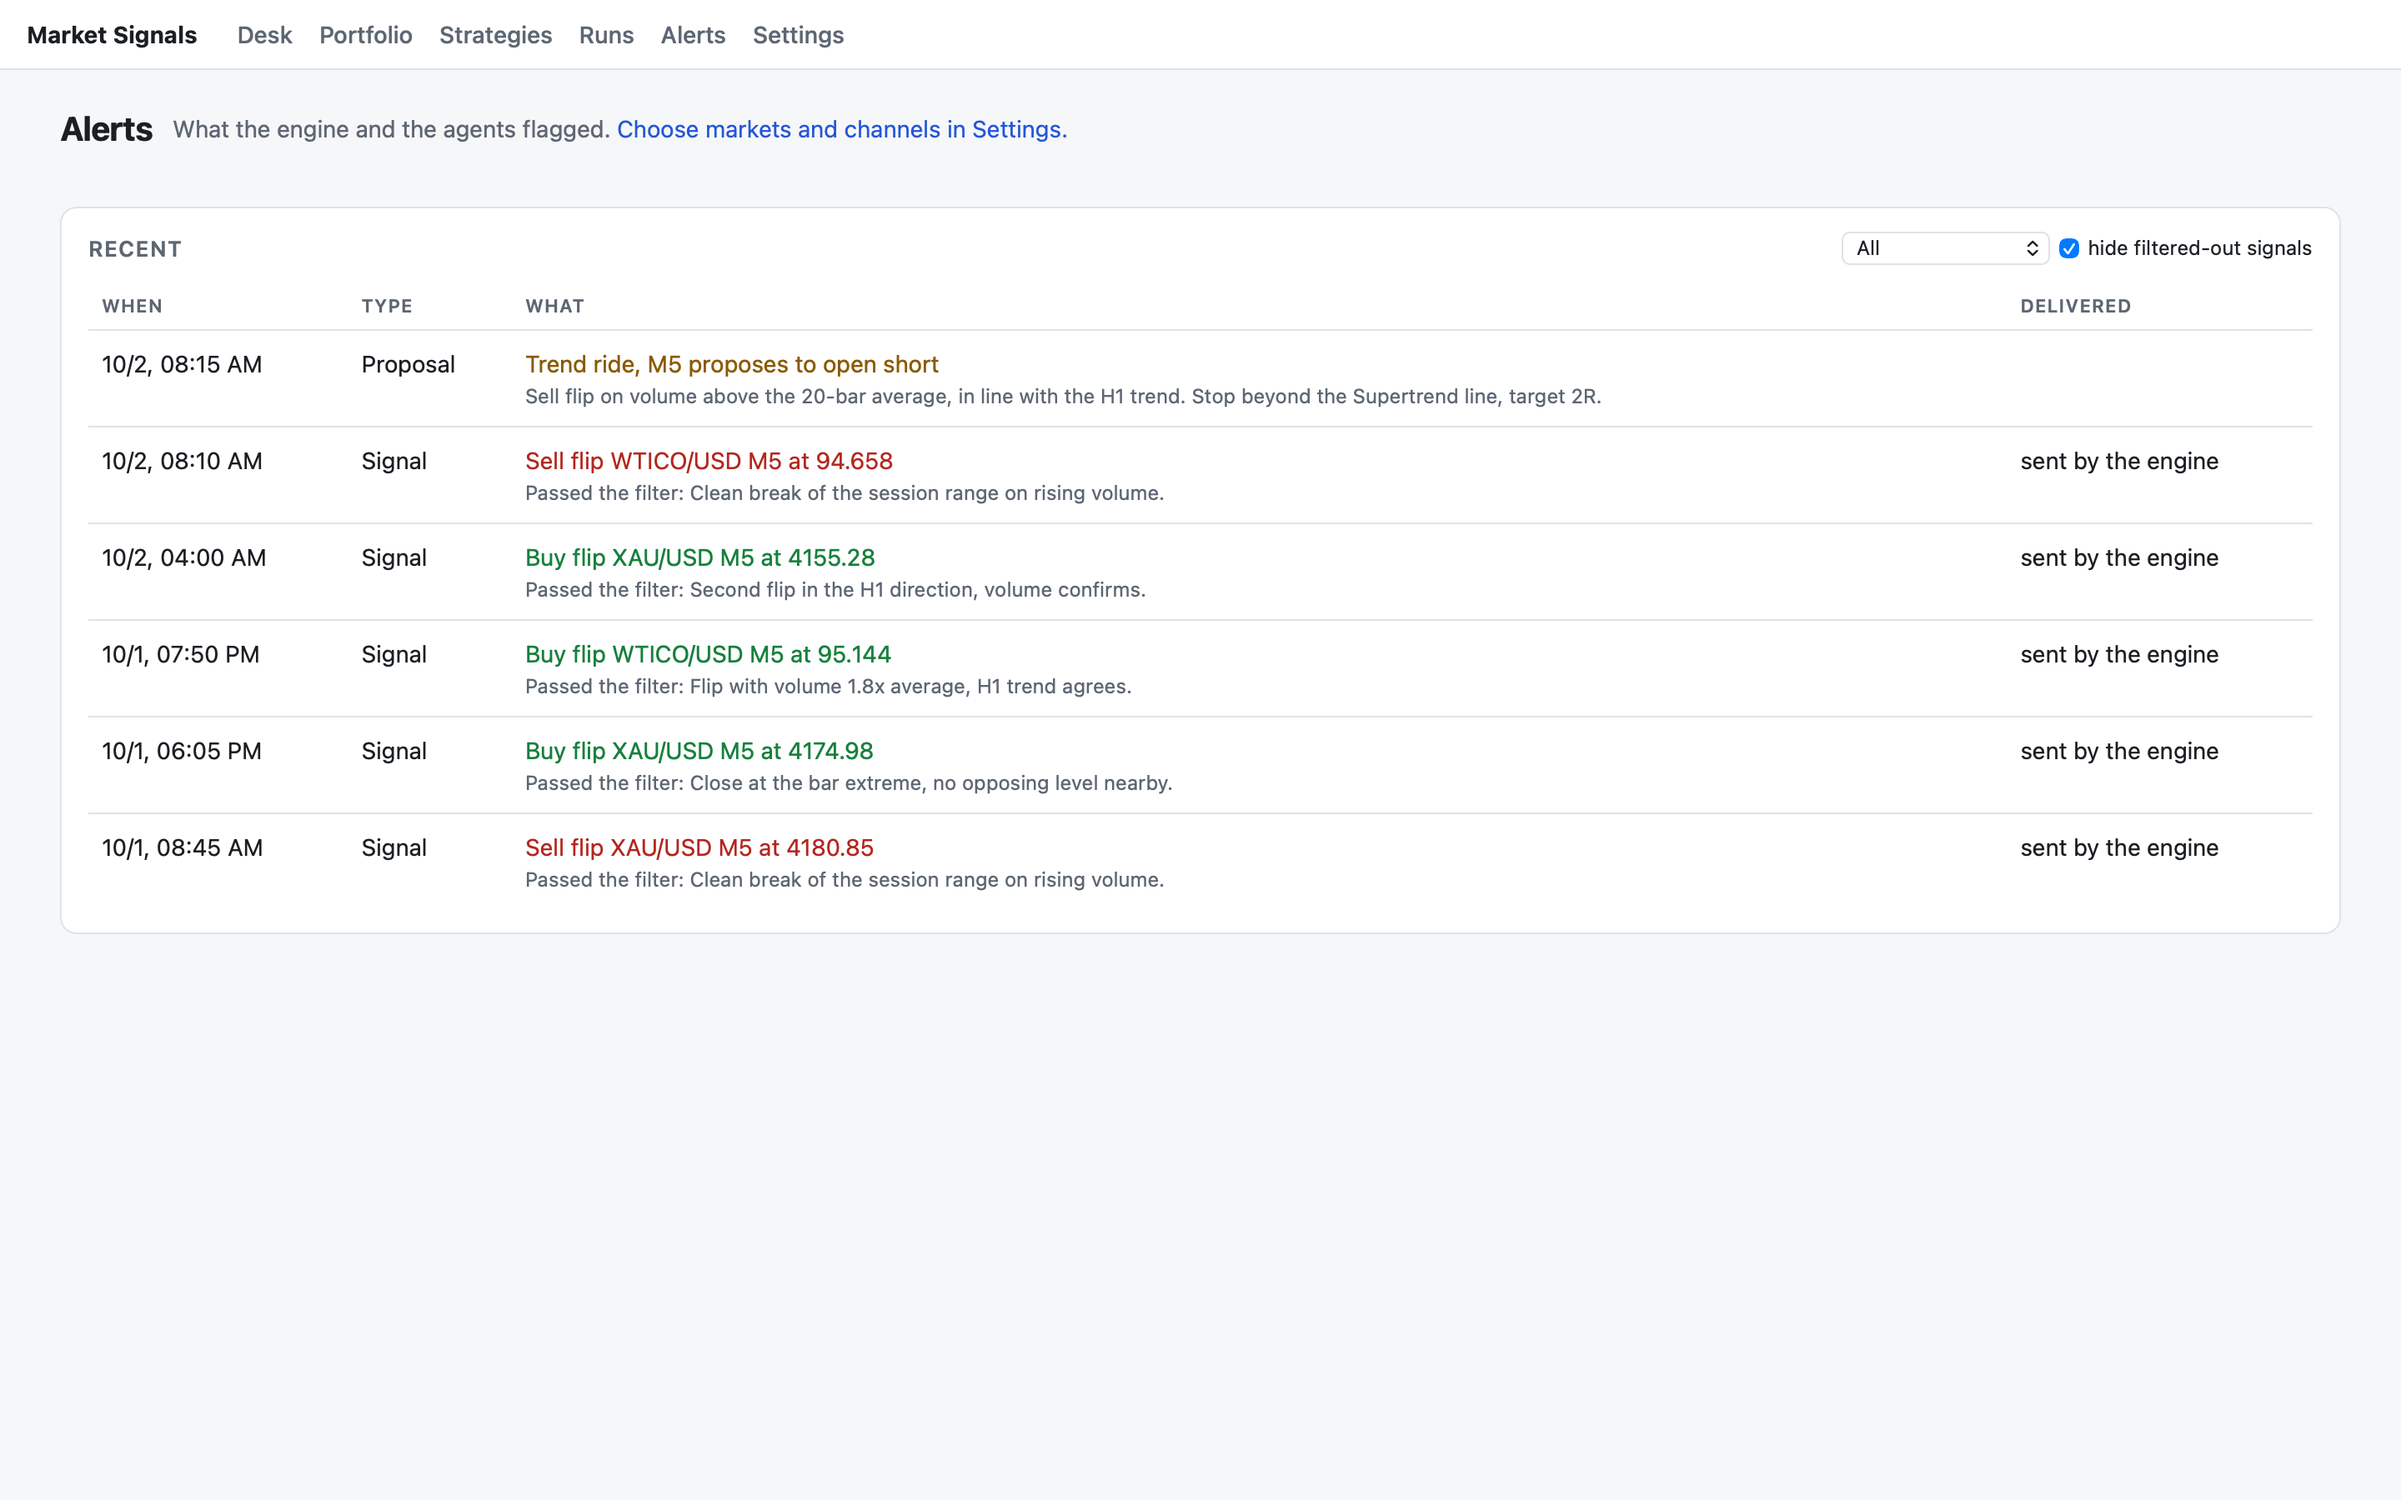
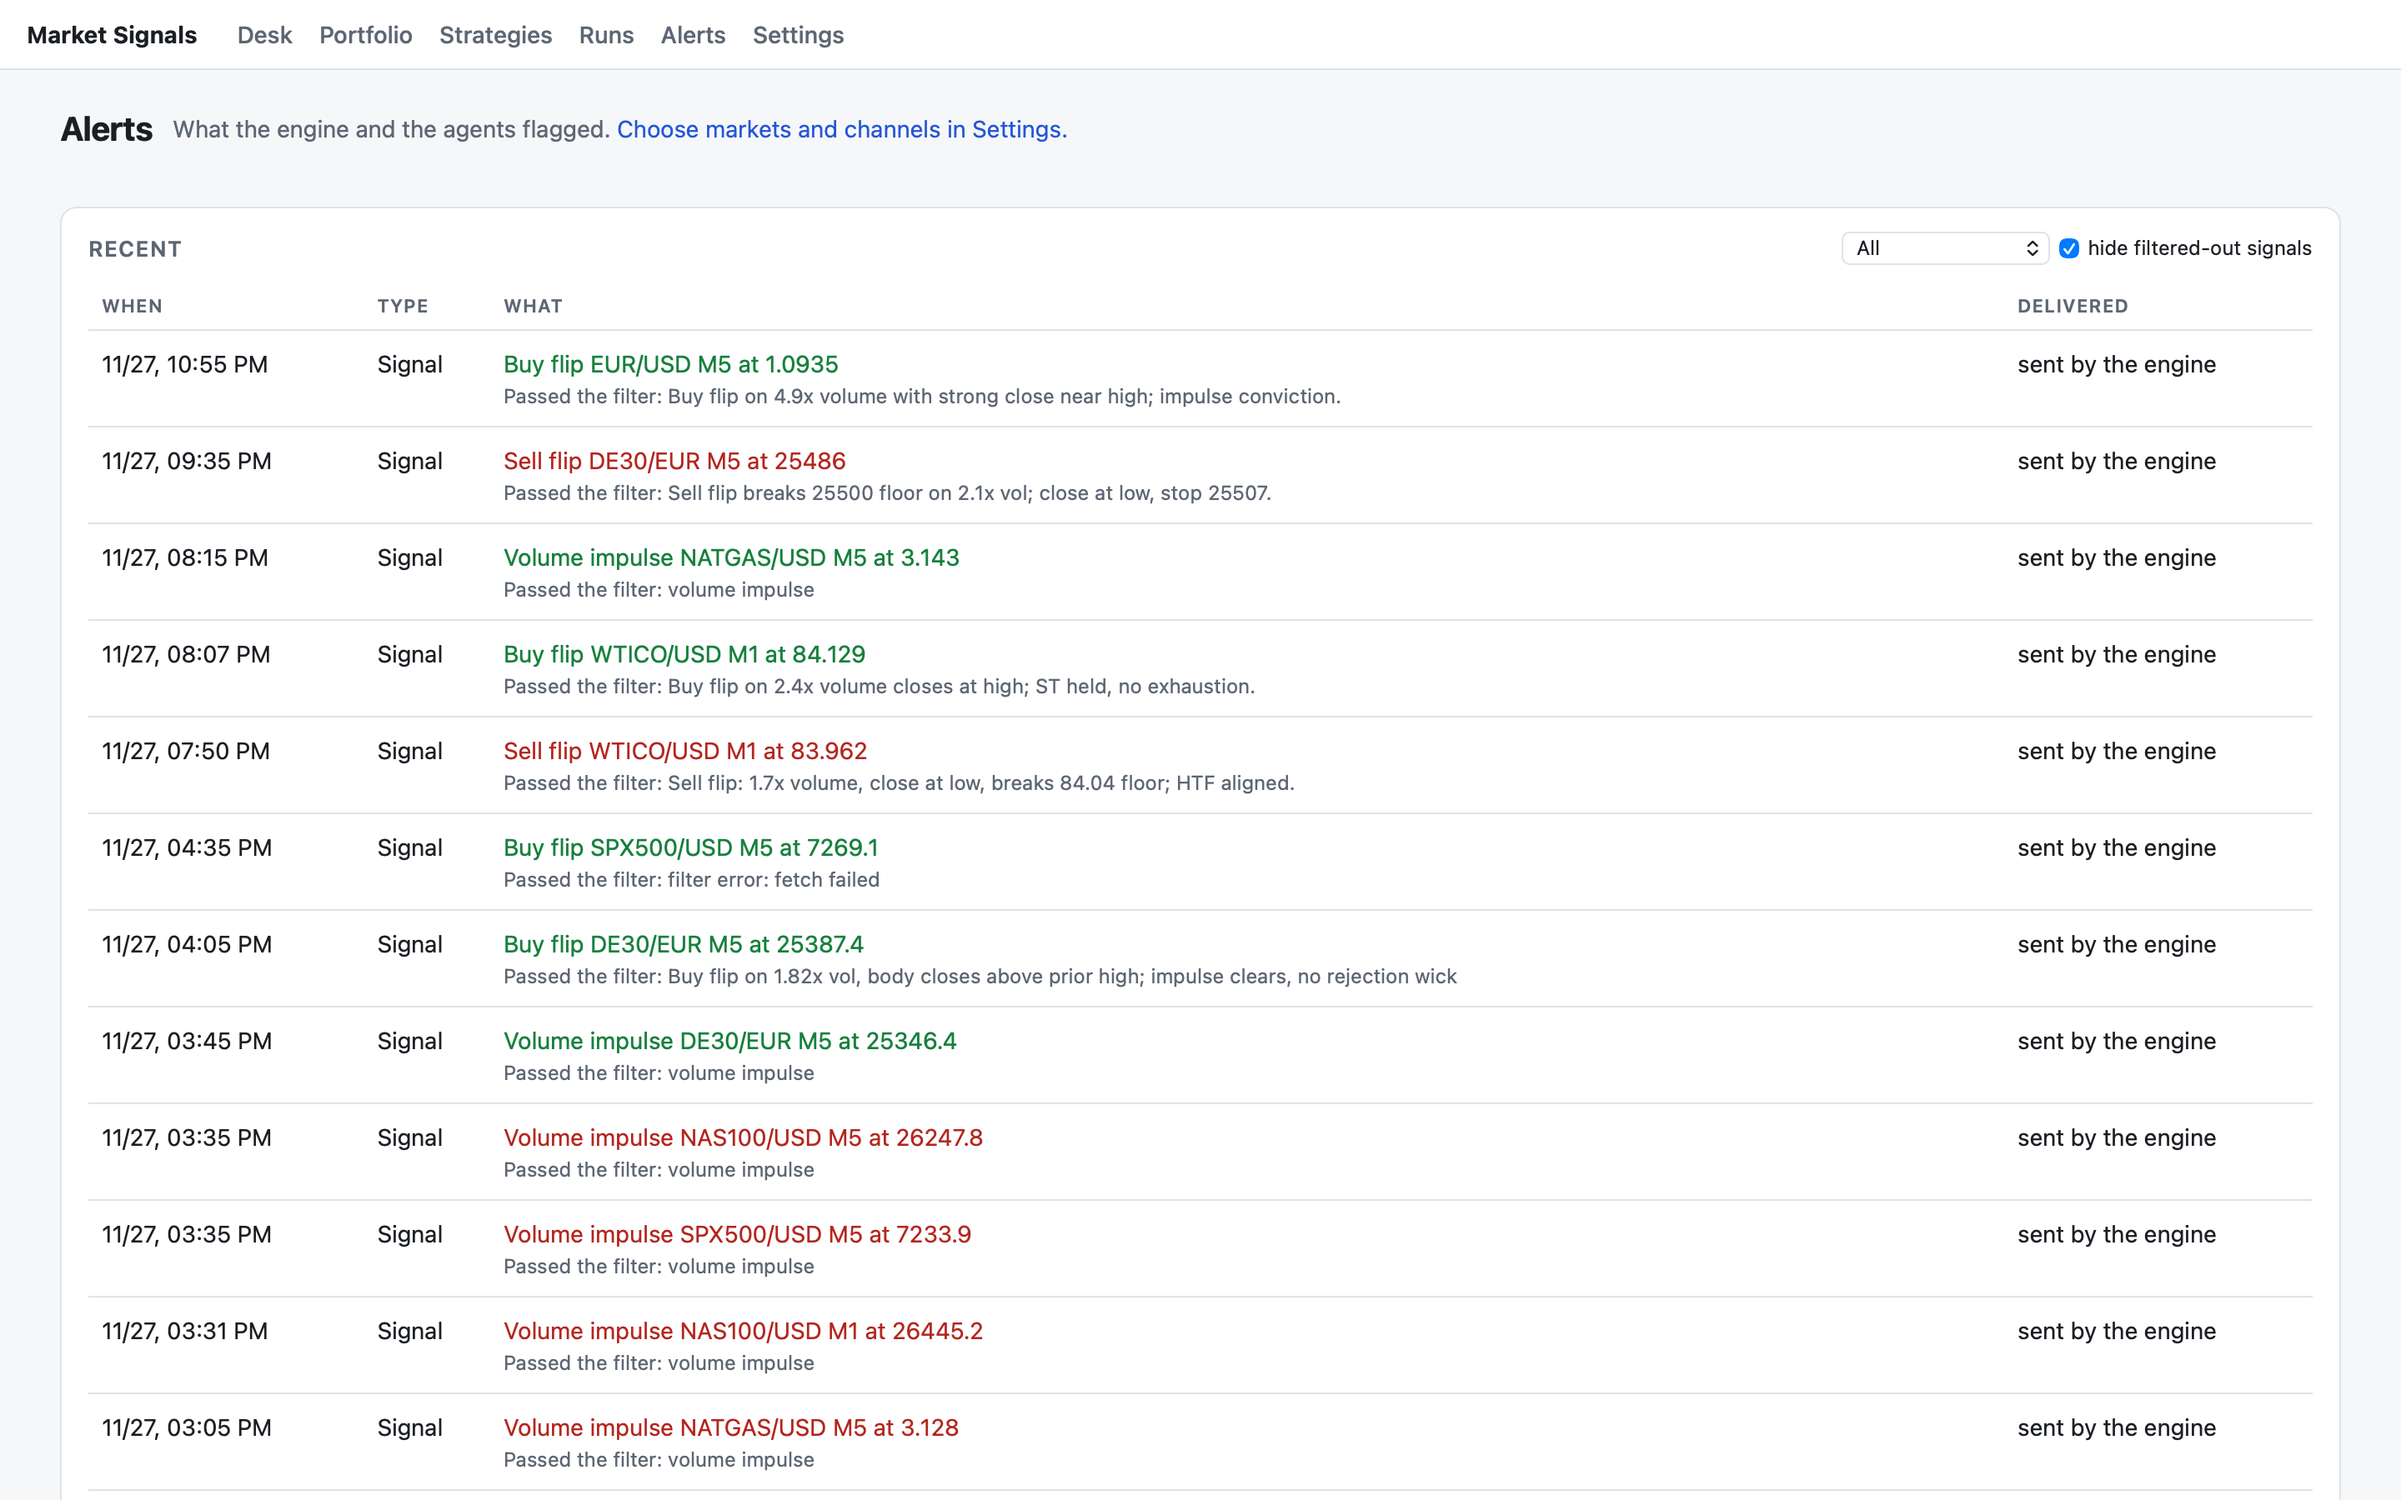
docs(site): refresh console screenshots and add the Runs page (#449)
* docs(site): refresh console screenshots and add the Runs page

Shot from the live console in WebKit at 1440x900 (2x), light and dark,
GET only. The worker hostname is replaced by worker-1 in the run shot.

* docs(site): match three captions to the new screenshots

The run screen no longer shows the chart, the desk clip ends at the
candle strips and the alerts window holds only signals.

dev-loops:commit-msg-guard:allow

* docs(site): drop the market count from the desk alt text in the guide

The re-shot desk image shows four markets, so the alt text no longer
names a count.

---------

diff --git a/site/content/guide.md b/site/content/guide.md
@@ -33,7 +33,7 @@ In the console's Settings, choose a model provider and enter its endpoint and ke
 
 The desk lists every watched market. Each card shows the live price, a strip of recent candles, the bot state, the agents, the last signal and the age of its data. Star a market to keep it at the top, and pick a small, medium or large tile.
 
-![The desk with three watched markets.](screen:desk "You can filter the desk by market type, or show only markets with a bot or agent on.")
+![The desk with its watched markets.](screen:desk "You can filter the desk by market type, or show only markets with a bot or agent on.")
 
 ## Open a market
 
@@ -51,6 +51,8 @@ Press "Check this one now" on an agent, or "Check all now" to ask every model ag
 
 The Runs page lists every run. Above the list it shows how many workers are online and a pipeline health card with the queue, the leases, the last monitor pass and the model spend of the day. The Portfolio page shows the paper account, its open positions and its closed trades.
 
+![The Runs page with the pipeline health card.](screen:runs "Queue age, leases, cancel requests, the last monitor pass and the model spend of the day, above the list of runs.")
+
 ## Refine a strategy
 
 A strategy is a versioned prompt. You can edit it, compare it with an earlier version or refine it with the grill. The guided grill asks one question at a time and marks a recommended answer. The automatic grill replays past signals and reports which settings held up on data it did not tune on.
@@ -61,7 +63,7 @@ A strategy is a versioned prompt. You can edit it, compare it with an earlier ve
 
 The alerts page puts signals, agent proposals and paper trades on one time line. A desktop notification opens the matching instrument page.
 
-![The alerts page.](screen:alerts "Signals, proposals and trades in time order.")
+![The alerts page.](screen:alerts "Signals and other alerts in time order.")
 
 ## Keep it local
 

diff --git a/site/content/architecture.md b/site/content/architecture.md
@@ -41,7 +41,7 @@ A model call takes seconds, costs money and sometimes fails. The monitor checks 
 4. The agent proposes to hold, or to open with an exit plan. Deterministic checks validate the proposal, and an invalid one becomes a hold.
 5. An accepted open becomes an advisory position, and the monitor manages it from then on.
 
-![A run page with the snapshot chart, the audit trail and the proposal.](screen:run "A finished run with its frozen chart, every tool call and model round, and the checked proposal.")
+![A run page with the audit trail, the attempts and the proposal.](screen:run "A finished run with every tool call and model round, its attempts and the checked proposal.")
 
 ## Technology
 

diff --git a/site/content/index.md b/site/content/index.md
@@ -11,7 +11,7 @@ description: A signal desk for one trader. Agents advise on each alert and rules
 
 <div class="btns"><a class="btn primary" href="guide.html">See it in use</a><a class="btn" href="architecture.html">How it is built</a></div>
 
-![The desk shows every watched market, its bot state and its last signal.](screen:desk "The desk lists each watched market with its bot state, last signal and data freshness.")
+![The desk shows every watched market with its price and bot state.](screen:desk "The desk lists each watched market with its price, candle strip and bot state.")
 
 ## Alerts end too early
 
